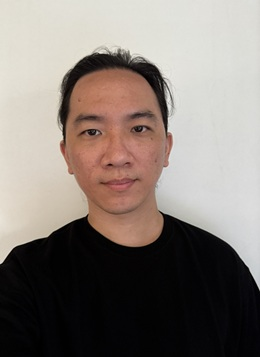
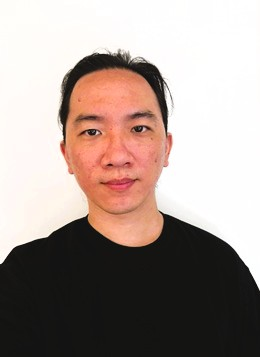
大頭貼美化

diff --git a/content/about/index-zh.md b/content/about/index-zh.md
@@ -1,0 +1,117 @@
++++
+title = "關於我"
+date = 2026-04-28
+layout = "page"
++++
+
+## 你好，我是 Rex
+
+我是後端工程師 Rex，具備 5–8 人團隊管理與微服務系統開發經驗，參與過高流量系統的開發與維運。專注於高可用性與可擴展性設計，透過系統優化與程式重構，提升服務穩定性並降低維護成本。
+
+工作聯繫：[could562073@gmail.com](mailto:could562073@gmail.com)
+
+---
+
+## 工作經驗
+
+目前累積約 5–6 年工作經驗。
+
+### 後端工程師 ／ 組長　·　凌發科技有限公司
+
+**2020 / 5 — 2025 / 6（5 年 2 個月）**　·　台中市西屯區
+
+**核心職責**
+
+- 設計與開發平台級微服務架構（Spring Boot），負責 API 設計、效能優化與系統穩定性提升
+- 帶領 3–5 人後端團隊，負責任務分配、技術決策與開發流程優化
+- 跨部門協作（PM / QA / Frontend / Ops），確保專案如期交付
+- 建立技術文件與開發規範，提升團隊開發效率與知識共享
+- 協助其他部門開發需求或處理技術問題
+
+**主要成就**
+
+*系統穩定性與日常問題改善*
+
+- 接手日常問題頻繁的平台級系統（初期每週超過 50 起需人工介入的問題）
+- 建立以 ELK 為基礎的 log-based troubleshooting 流程，透過 request tracing 快速定位根因
+- 將 production issue 系統化分類（效能瓶頸、資料錯誤、流程設計缺陷等），針對高頻問題持續優化
+- 在持續支援新功能開發的情況下，**兩年內將日常問題發生頻率降低超過 70%**，顯著減少 on-call 壓力並提升系統穩定性
+- 重構既有微服務架構，修復關鍵效能瓶頸與錯誤流程，提升系統可維護性
+
+*微服務開發*
+
+- 主導用戶服務模組（註冊 / 登入 / 權限 / 後台管理）設計與開發
+- 規劃服務間 API 設計與資料流
+
+*團隊與流程優化*
+
+- 建立團隊開發流程與技術文件（40+ 篇）
+- 加速新人成長週期，提升團隊交付效率
+
+*0 → 1 專案*
+
+- **QR Code 掃描點餐系統**：負責 API 與資料庫設計及後端開發；建立 Docker + Nginx 前後端部署環境，提升部署效率
+- **連鎖排班與營運系統**：參與中大型營運系統重構，負責會員、出勤與即時排班輪調機制開發；設計自動派工邏輯並與 PM 協作落地複雜業務流程
+
+`Java`　`Linux`　`系統架構規劃`　`資料庫設計`
+
+---
+
+### Java 工程師　·　台灣宸運雲端有限公司
+
+**2019 / 11 — 2020 / 5（7 個月）**　·　台中市西屯區
+
+**主要工作**
+
+- 協助維護公司現有專案，並投入新技術／工具的研究與開發
+- 撰寫內部開發工具與技術文件，支援跨部門技術需求
+
+**主要成就**
+
+*點餐系統 2.0*
+
+- 參與後端新功能開發、重構、效能優化、測試與 API 文件撰寫
+- 重構功能列表邏輯、改善列表效能，響應時間從 **10 s 優化至 0.2 ms**
+- 重寫 JPA 為 Native SQL，整體查詢速度提升 **50% 以上**
+
+*會議室預約管理系統*
+
+- 依產品設計原型進行系統後端功能設計、開發、測試與技術文件撰寫
+- 負責主畫面列表、詳細、新刪修查會議之後端 API、DB 設計與 API 文件
+- 搭建 Docker 容器部署環境，實現快速部署與測試流程自動化
+- 設計 Email 會議通知模板（Thymeleaf）
+
+`Java`　`Spring Framework`　`Linux`　`Git`　`MySQL`
+
+---
+
+### Java 雲端服務開發技術養成班　·　財團法人資訊工業策進會
+
+**2019 / 4 — 2019 / 9（6 個月）**　·　桃園市中壢區
+
+- 學習 Java 核心、框架應用（Spring Boot）、前後端整合、資料庫管理（SQL／NoSQL）及雲端技術基礎（AWS／Docker）和 Android App 開發
+- 涵蓋系統開發、專案管理、軟體工程、敏捷開發等實務課程
+- 超過 **800 小時** 密集訓練（約 6 個月）含理論與實務專題
+- 最終專題：負責網頁端部分功能與 Android App 開發，包含 Web Form 表單、Google Map API 串接、Android 購物車、商品選單、結帳等；技術涵蓋 Spring MVC、JSP、AJAX、jQuery、Android SDK
+
+---
+
+## 技能
+
+**Backend**　Java、Spring Framework、MyBatis、Maven、Git、RocketMQ、Redis、SQL Function
+
+**資料庫**　PostgreSQL、MySQL（MariaDB）
+
+**作業系統**　Windows、Linux
+
+**DevOps**　Docker、Jenkins、Shell Script、Nginx
+
+**Frontend**　HTML 5、JavaScript、CSS、Vue.js、jQuery
+
+---
+
+## 語言能力
+
+- **中文**　聽 / 說 / 讀 / 寫　精通
+- **英文**　聽 / 說 / 讀 / 寫　中等（IELTS 5）
+- **台語**　中等

diff --git a/content/post/2026-04-29-1768. Merge Strings Alternately.md b/content/post/2026-04-29-1768. Merge Strings Alternately.md
@@ -1,0 +1,76 @@
++++
+title = "1768. Merge Strings Alternately"
+date = 2026-04-29
+draft = false
+tags = ["LeetCode"]
+categories = ["LeetCode"]
++++
+
+### 主要用了什麼方法：
+For迴圈
+
+### 用了多久: 
+將近兩個小時
+
+### 卡在哪裡：
+
+因為用了for迴圈需要先定義長度，所以卡很久，剩餘元素一直處理不好，卡在兩個長度不一致時會有的情況，一直在想怎麼處理剩餘元素撈取的問題
+
+#### Time Complexity:  
+**O(n)**
+
+#### Space Complexity:  
+**O(m+n)**
+
+## My Solution:
+
+```java
+class Solution {
+    public String mergeAlternately(String word1, String word2) {
+        StringBuilder sb1 = new StringBuilder();
+        int maxlength;
+        if (word1.length() >= word2.length()) {
+            maxlength = word1.length();
+        } else {
+            maxlength = word2.length();
+        }
+
+        for (int i = 0; i < maxlength; i++) {
+            if (i < word1.length()) {
+                sb1.append(word1.charAt(i));
+                if (i < word2.length()) {
+                    sb1.append(word2.charAt(i));
+                }
+            }
+            if (i == word1.length()) {
+                for (int k = i; k < word2.length(); k++) {
+                    sb1.append(word2.charAt(k));
+                }
+            }
+        }
+        return sb1.toString();
+    }
+}
+
+```
+
+## Best Practice (from claude AI)
+
+```java
+class Solution {
+    public String mergeAlternately(String word1, String word2) {
+        StringBuilder sb = new StringBuilder();
+        int i = 0;
+        while (i < word1.length() || i < word2.length()) {
+            if (i < word1.length()) sb.append(word1.charAt(i));
+            if (i < word2.length()) sb.append(word2.charAt(i));
+            i++;
+        }
+        return sb.toString();
+    }
+}
+```
+
+### 學到什麼：
+
+與其先算邊界，不如讓條件自己管邊界，claude的最佳實踐用的是while 迴圈，直接判斷兩個長度即可疊代所有元素出來

diff --git a/content/post/2026-04-28-hugo-hello-world.md b/content/post/2026-04-28-hugo-hello-world.md
@@ -2,7 +2,7 @@
 title = "建置 Hugo Hello World"
 date = 2026-04-28
 draft = false
-tags = ["Hugo", "建置筆記"]
+tags = ["Hugo"]
 categories = ["筆記"]
 +++
 
